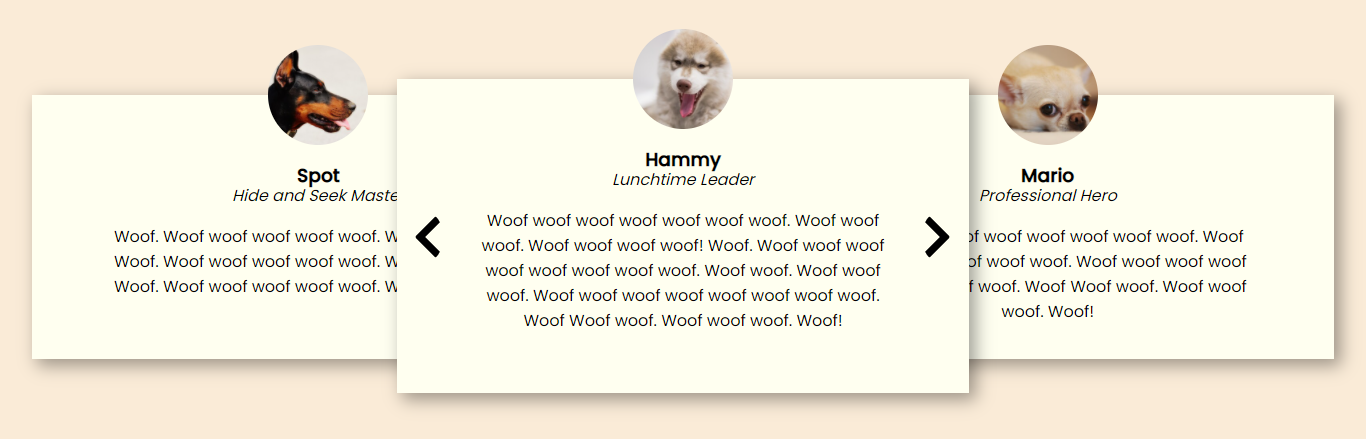
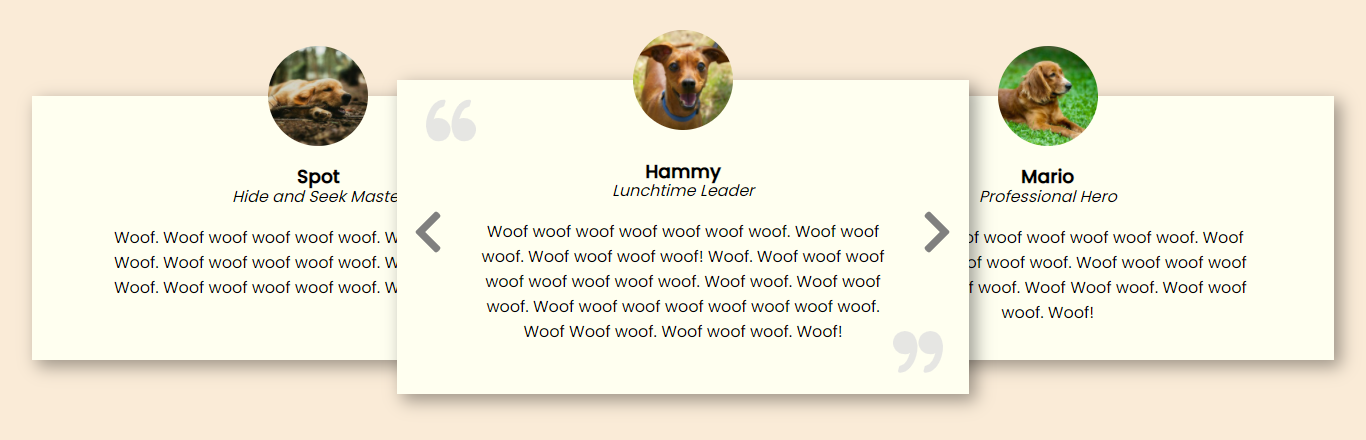
satisfied with colours

diff --git a/src/components/Carousel.js b/src/components/Carousel.js
@@ -21,16 +21,16 @@ class Carousel extends React.Component {
                     <div className="card active">
                         <img className="avatars" src="https://placedog.net/350/350" alt="avatar"></img>
                         <div className="text">
-                            <Quote className="quotes quote-left" fill="red"></Quote>
+                            <Quote className="quotes quote-left" fill="hsla(221, 0%, 88%, 0.81)"></Quote>
                             <h3 className="name">Hammy</h3>
                             <i className="position">Lunchtime Leader</i>
                             <p className="testimony">Woof woof woof woof woof woof woof. Woof woof woof. Woof woof woof woof! Woof. Woof woof woof woof woof woof woof woof. Woof woof. Woof woof woof. Woof woof woof woof woof woof woof woof. Woof Woof woof. Woof woof woof. Woof!</p>
 
                             <div class="arrow-container">
-                                <ArrowLeft className="arrow arrow-left" fill="hsla(316, 0%, 62%, 0.89)"></ArrowLeft>
-                                <ArrowRight className="arrow arrow-right" fill="red"></ArrowRight>
+                                <ArrowLeft className="arrow arrow-left" fill="hsla(221, 0%, 49%, 0.98)"></ArrowLeft>
+                                <ArrowRight className="arrow arrow-right" fill="hsla(221, 0%, 49%, 0.98)"></ArrowRight>
                             </div>
-                            <Quote className="quotes quote-right" fill="grey"> </Quote>
+                            <Quote className="quotes quote-right" fill="hsla(221, 0%, 88%, 0.81)"> </Quote>
                         </div>
                     </div>
                     <div className="card right">

diff --git a/src/components/Carousel.css b/src/components/Carousel.css
@@ -51,7 +51,7 @@ body {
 }
 
 .active .name {
-  margin-top: -.5em;
+  margin-top: -1em;
 }
 
 .arrow-container {
@@ -80,12 +80,12 @@ p {
 }
 
 .quote-left {
-  margin-top: -20em;
-  margin-left: -28em;
+  margin-top: -4em;
+  margin-left: -29em;
 }
 
 .quote-right {
-  margin-left: 28em;
+  margin-left: 29em;
   transform: rotate(180deg);
-  margin-top: 4em;
+  margin-top: 3em;
 }
